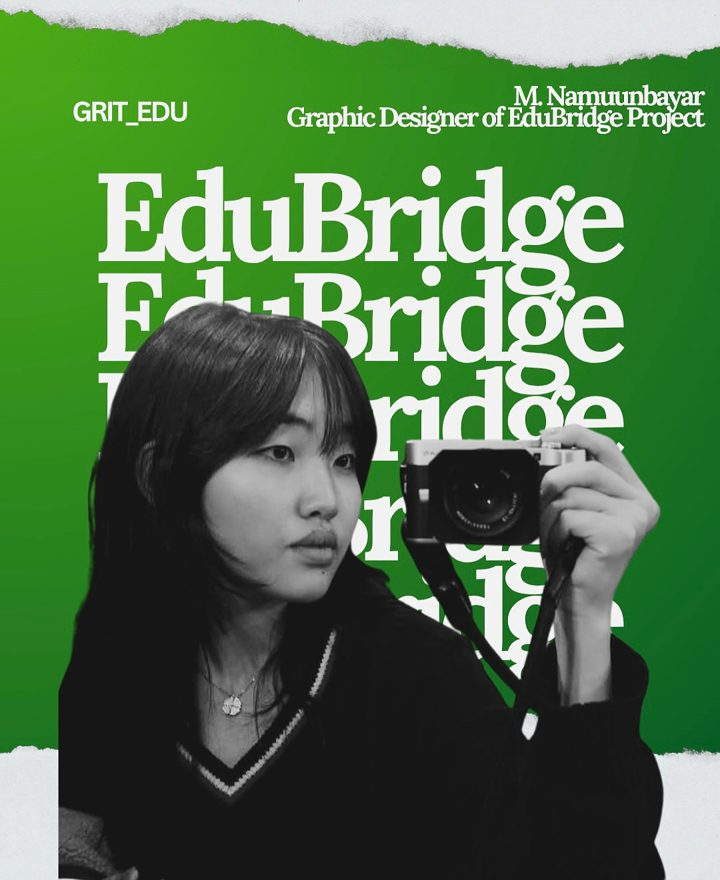
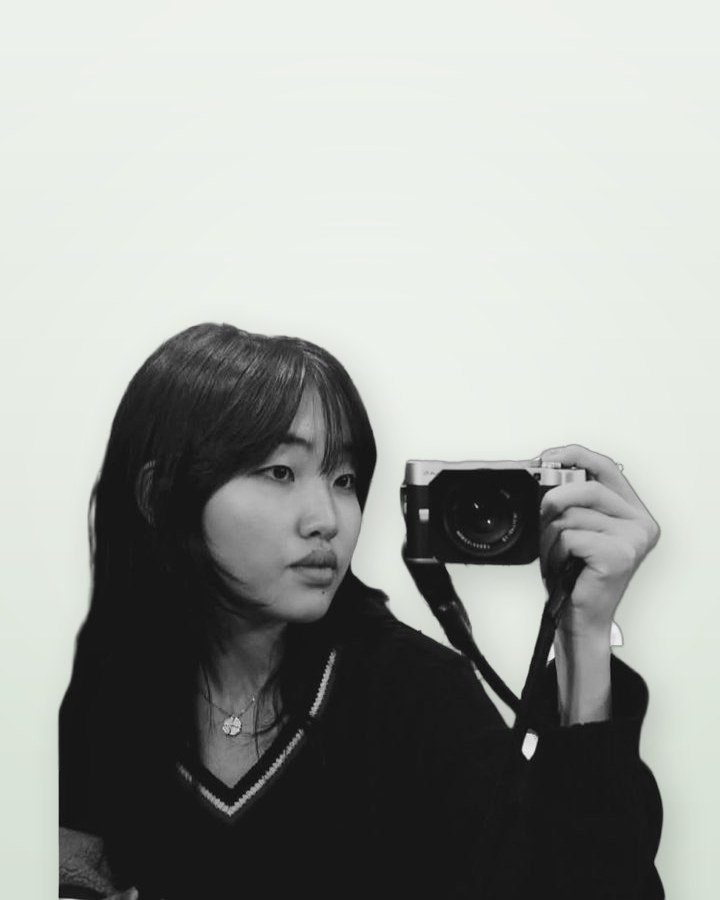
Team photos: clean background instead of EduBridge posters
Claude-Session: https://claude.ai/code/session_015w2YeaPuoH2UidzmstFP66

diff --git a/index.html b/index.html
@@ -342,49 +342,49 @@
       </div>
       <div class="marquee" data-reveal>
         <a class="member" href="member.html?m=bayarmagnai">
-          <div class="member__photo"><img src="assets/img/team-bayarmagnai.jpg" alt="Bayarmagnai Usukhgerel, Founder of GRIT" loading="lazy"></div>
+          <div class="member__photo"><img src="assets/img/team-bayarmagnai.jpg?v=2" alt="Bayarmagnai Usukhgerel, Founder of GRIT" loading="lazy"></div>
           <p class="member__name">Bayarmagnai Usukhgerel</p>
           <p class="member__school">Founder of GRIT</p>
         </a>
         <a class="member" href="member.html?m=namuunbayar">
-          <div class="member__photo"><img src="assets/img/team-1.jpg" alt="M. Namuunbayar, Graphic Designer, GRIT EDU program" loading="lazy"></div>
+          <div class="member__photo"><img src="assets/img/team-1.jpg?v=2" alt="M. Namuunbayar, Graphic Designer, GRIT EDU program" loading="lazy"></div>
           <p class="member__name">M. Namuunbayar</p>
           <p class="member__school">Graphic Designer, GRIT EDU program</p>
         </a>
         <a class="member" href="member.html?m=anar">
-          <div class="member__photo"><img src="assets/img/team-2.jpg" alt="B. Anar, Teacher, GRIT EDU program" loading="lazy"></div>
+          <div class="member__photo"><img src="assets/img/team-2.jpg?v=2" alt="B. Anar, Teacher, GRIT EDU program" loading="lazy"></div>
           <p class="member__name">B. Anar</p>
           <p class="member__school">Teacher, GRIT EDU program</p>
         </a>
         <a class="member" href="member.html?m=munkhdalai">
-          <div class="member__photo"><img src="assets/img/team-3.jpg" alt="B. Munkhdalai, Teacher, GRIT EDU program" loading="lazy"></div>
+          <div class="member__photo"><img src="assets/img/team-3.jpg?v=2" alt="B. Munkhdalai, Teacher, GRIT EDU program" loading="lazy"></div>
           <p class="member__name">B. Munkhdalai</p>
           <p class="member__school">Teacher, GRIT EDU program</p>
         </a>
         <a class="member" href="member.html?m=enkhgerel">
-          <div class="member__photo"><img src="assets/img/team-4.jpg" alt="O. Enkhgerel, Manager, GRIT EDU program" loading="lazy"></div>
+          <div class="member__photo"><img src="assets/img/team-4.jpg?v=2" alt="O. Enkhgerel, Manager, GRIT EDU program" loading="lazy"></div>
           <p class="member__name">O. Enkhgerel</p>
           <p class="member__school">Manager, GRIT EDU program</p>
         </a>
         <a class="member" href="member.html?m=tulga">
-          <div class="member__photo"><img src="assets/img/team-5.jpg" alt="B. Tulga, Teacher, GRIT EDU program" loading="lazy"></div>
+          <div class="member__photo"><img src="assets/img/team-5.jpg?v=2" alt="B. Tulga, Teacher, GRIT EDU program" loading="lazy"></div>
           <p class="member__name">B. Tulga</p>
           <p class="member__school">Teacher, GRIT EDU program</p>
         </a>
         <!-- hidden for now
         <a class="member" href="member.html?m=batzorigt">
-          <div class="member__photo"><img src="assets/img/team-batzorigt.jpg" alt="G. Batzorigt, Teacher, GRIT EDU program" loading="lazy"></div>
+          <div class="member__photo"><img src="assets/img/team-batzorigt.jpg?v=2" alt="G. Batzorigt, Teacher, GRIT EDU program" loading="lazy"></div>
           <p class="member__name">G. Batzorigt</p>
           <p class="member__school">Teacher, GRIT EDU program</p>
         </a>
         -->
         <a class="member" href="member.html?m=nomin">
-          <div class="member__photo"><img src="assets/img/team-nomin.jpg" alt="B. Nomin, Teacher, GRIT EDU program" loading="lazy"></div>
+          <div class="member__photo"><img src="assets/img/team-nomin.jpg?v=2" alt="B. Nomin, Teacher, GRIT EDU program" loading="lazy"></div>
           <p class="member__name">B. Nomin</p>
           <p class="member__school">Teacher, GRIT EDU program</p>
         </a>
         <a class="member" href="member.html?m=namuun">
-          <div class="member__photo"><img src="assets/img/team-namuun.jpg" alt="J. Namuun, Teacher, GRIT EDU program" loading="lazy"></div>
+          <div class="member__photo"><img src="assets/img/team-namuun.jpg?v=2" alt="J. Namuun, Teacher, GRIT EDU program" loading="lazy"></div>
           <p class="member__name">J. Namuun</p>
           <p class="member__school">Teacher, GRIT EDU program</p>
         </a>

diff --git a/js/team.js b/js/team.js
@@ -4,63 +4,63 @@ const TEAM = {
   bayarmagnai: {
     name: "Bayarmagnai Usukhgerel",
     role: "Founder of GRIT",
-    photo: "assets/img/team-bayarmagnai.jpg",
+    photo: "assets/img/team-bayarmagnai.jpg?v=2",
     responsibilities: "Program lead: finance, organization, university application classes",
     bio: [],
   },
   namuunbayar: {
     name: "M. Namuunbayar",
     role: "Graphic Designer",
-    photo: "assets/img/team-1.jpg",
+    photo: "assets/img/team-1.jpg?v=2",
     responsibilities: "Design and content",
     bio: [],
   },
   anar: {
     name: "B. Anar",
     role: "Teacher",
-    photo: "assets/img/team-2.jpg",
+    photo: "assets/img/team-2.jpg?v=2",
     responsibilities: "Teaching",
     bio: [],
   },
   munkhdalai: {
     name: "B. Munkhdalai",
     role: "English Teacher",
-    photo: "assets/img/team-3.jpg",
+    photo: "assets/img/team-3.jpg?v=2",
     responsibilities: "English, country information",
     bio: [],
   },
   enkhgerel: {
     name: "O. Enkhgerel",
     role: "Program Manager",
-    photo: "assets/img/team-4.jpg",
+    photo: "assets/img/team-4.jpg?v=2",
     responsibilities: "Organization, country information",
     bio: [],
   },
   tulga: {
     name: "B. Tulga",
     role: "English Teacher",
-    photo: "assets/img/team-5.jpg",
+    photo: "assets/img/team-5.jpg?v=2",
     responsibilities: "English, cooking",
     bio: [],
   },
   batzorigt: {
     name: "G. Batzorigt",
     role: "Teacher",
-    photo: "assets/img/team-batzorigt.jpg",
+    photo: "assets/img/team-batzorigt.jpg?v=2",
     responsibilities: "Teaching",
     bio: [],
   },
   nomin: {
     name: "B. Nomin",
     role: "Teacher",
-    photo: "assets/img/team-nomin.jpg",
+    photo: "assets/img/team-nomin.jpg?v=2",
     responsibilities: "English, country information",
     bio: [],
   },
   namuun: {
     name: "J. Namuun",
     role: "Teacher",
-    photo: "assets/img/team-namuun.jpg",
+    photo: "assets/img/team-namuun.jpg?v=2",
     responsibilities: "University applications, country information",
     bio: [],
   },

diff --git a/member.html b/member.html
@@ -57,7 +57,7 @@
 
   <main>
     <section class="container profile" id="profile">
-      <div class="profile__photo" data-reveal><img id="member-photo" src="assets/img/team-1.jpg" alt=""></div>
+      <div class="profile__photo" data-reveal><img id="member-photo" src="assets/img/team-1.jpg?v=2" alt=""></div>
       <div>
         <p class="eyebrow" data-reveal>GRIT team · GRIT EDU program</p>
         <h1 class="profile__name" id="member-name" data-reveal>M. Namuunbayar</h1>
